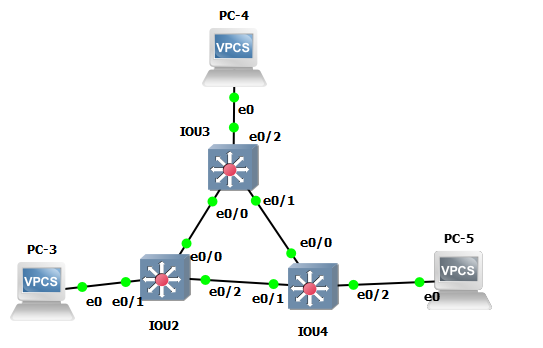
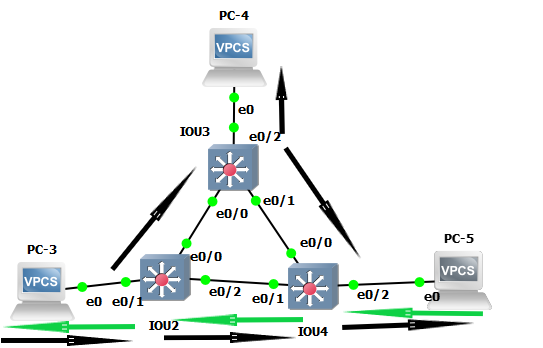
a

diff --git a/TP2/README.md b/TP2/README.md
@@ -127,3 +127,7 @@ On ping `PC3` vers `PC5` et nous écoutons entre `SW2/SW4` et `SW3/SW4`
 `SW3 +-----+ SW4`
 ![SW3/SW4](images/IOU3-IOU4.PNG)
 
+1: Fleche noir: Broadcast
+2: Fleche verte: Reply
+![topo](images/topologie2.PNG)
+
